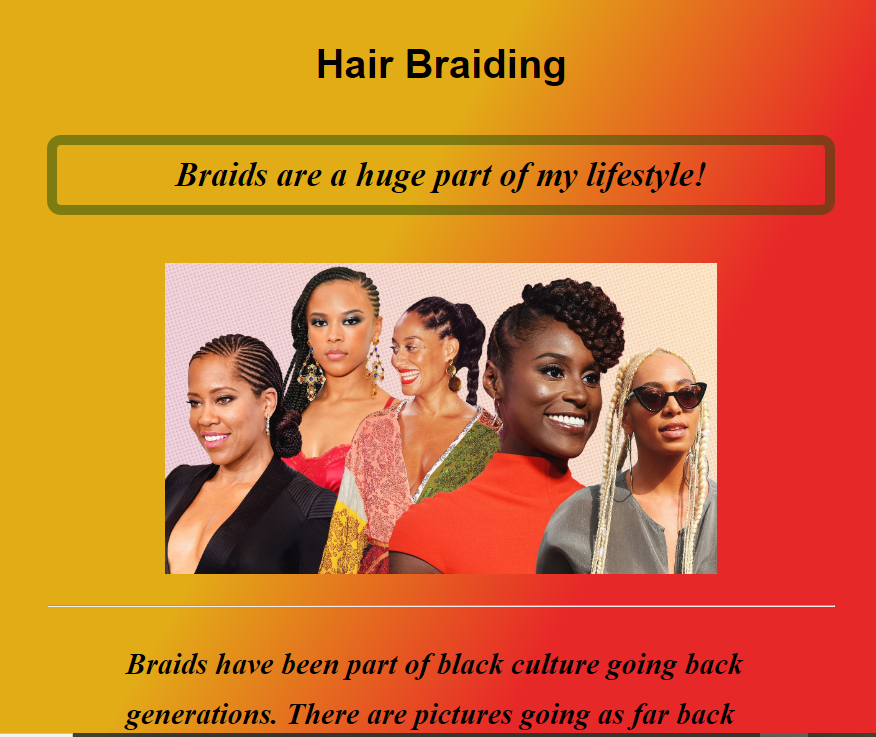
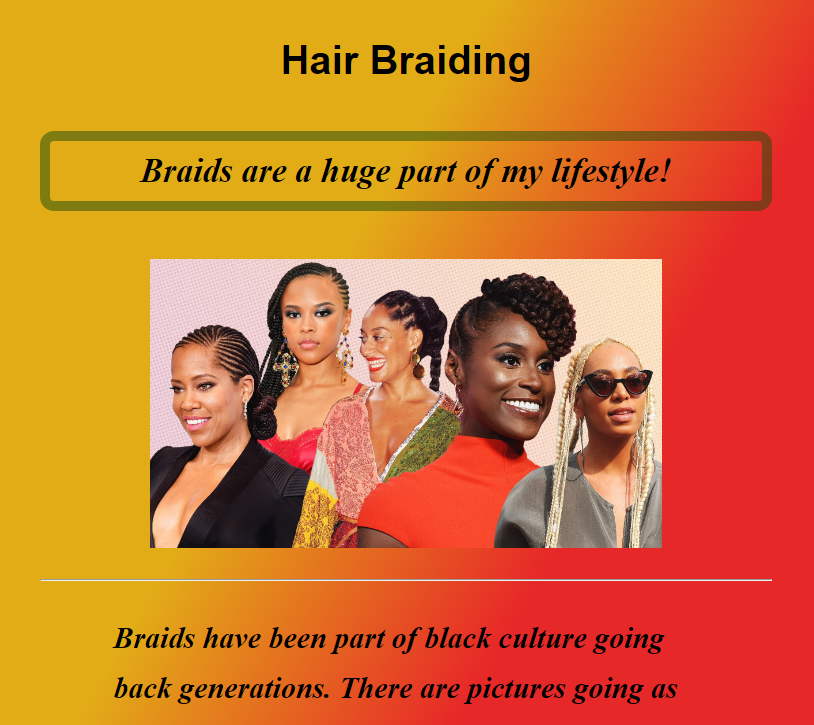
changed theme,added pictures and styling to page

diff --git a/index.html b/index.html
@@ -6,21 +6,32 @@
       name="Final Portfolio Project"
       content="Final project for Samantha Montgomery Portfolio. Web Developer, SheCodes, HTML, CSS, Javascript, React width=device-width, initial-scale=1.0"
     />
-    <meta http-equiv="X-UA-Compatible" content="ie=edge" />
+    <meta name="viewport" content="width=device-width, initial-scale=1.0" />
+
     <link
-      href="https://cdn.jsdelivr.net/npm/bootstrap@5.2.1/dist/css/bootstrap.min.css"
+      href="https://cdn.jsdelivr.net/npm/bootstrap@5.2.0/dist/css/bootstrap.min.css"
       rel="stylesheet"
-      integrity="sha384-iYQeCzEYFbKjA/T2uDLTpkwGzCiq6soy8tYaI1GyVh/UjpbCx/TYkiZhlZB6+fzT"
+      integrity="sha384-gH2yIJqKdNHPEq0n4Mqa/HGKIhSkIHeL5AyhkYV8i59U5AR6csBvApHHNl/vI1Bx"
       crossorigin="anonymous"
     />
-    <title>My Portfolio</title>
+    <script
+      src="https://cdn.jsdelivr.net/npm/bootstrap@5.2.0/dist/js/bootstrap.bundle.min.js"
+      integrity="sha384-A3rJD856KowSb7dwlZdYEkO39Gagi7vIsF0jrRAoQmDKKtQBHUuLZ9AsSv4jD4Xa"
+      crossorigin="anonymous"
+    ></script>
     <link rel="stylesheet" href="src/style.css" />
+    <meta: name="description" content="SheCodes Bootstrap / Responsive Grids and
+    Images"/>
+    <title>
+      Samantha Montgomery/ Front End Developer / SheCodes Responsive Project
+    </title>
   </head>
-
   <body>
-    <nav class="navbar navbar fixed-top bg-light mb-2">
+    <nav class="text-center navbar navbar-expand-lg bg-dark fixed-top">
       <div class="container-fluid">
-        <a class="navbar-brand" href="#">Sam Montgomery</a>
+        <a class="navbar-brand" href="index.html" title="Name"
+          >Sam Montgomery</a
+        >
         <button
           class="navbar-toggler"
           type="button"
@@ -35,96 +46,80 @@
         <div class="collapse navbar-collapse" id="navbarNav">
           <ul class="navbar-nav">
             <li class="nav-item">
-              <a class="nav-link active" aria-current="page" href="#">Home</a>
+              <a
+                class="nav-link"
+                aria-current="page"
+                href="index.html"
+                title="Home"
+                >Home</a
+              >
             </li>
             <li class="nav-item">
-              <a class="nav-link" href="#">About Me</a>
+              <a class="nav-link" href="about.html" title="About Me"
+                >About me</a
+              >
             </li>
             <li class="nav-item">
-              <a class="nav-link" href="#">My Projects</a>
+              <a
+                class="nav-link"
+                class="contact-link"
+                href="about.html#contact"
+                title="Contact"
+                >Contact me</a
+              >
             </li>
           </ul>
         </div>
       </div>
     </nav>
-    <div class="animation">
-      <h1>Samantha Montgomery</h1>
-      <h2>Front End Web Developer based in the United States</h2>
-      <div class="circle">
-        <div class="text">Samantha Montgomery-Front End Web Developer-</div>
-      </div>
+    <h1 class="text-center mb-3">Sam Montgomery</h1>
+    <h3 class="text-center">
+      🇺🇸 Front-end developer, based in The United States
+    </h3>
+    <div class="navigation-links">
+      <a class="contact-link" href="about.html#contact" title="Contact"
+        >Contact me</a
+      >
+      <a class="about-link" href="about.html" title="About">About me</a>
     </div>
     <div class="container">
       <div class="row mt-5 mb-5">
-        <div class="image col-6">
+        <div class="col-6 mb-3">
+          <div class="app-titles">Hair Braiding Project</div>
+          <p>
+            This was my first coding project. It was built using HTML, CSS and
+            basic Javascript functions. I learned alot during the building of
+            this page and found my passion for coding and creating web pages.
+          </p>
+        </div>
+        <div class="col-6 mb-3">
           <img
             src="src/images/braidingproject.png"
-            alt="Braiding Project Picture"
-            class="img-fluid rounded"
+            alt="Hair Braiding Project"
+            class="img-fluid rounded d-none d-sm-block"
           />
-        </div>
-        <div class="col-6">
-          <div class="app-titles mb-3">Yoga app</div>
-          <p class="paragraphs">
-            Lorem ipsum dolor sit amet consectetur adipisicing elit. Perferendis
-            quia, dignissimos nam ratione veniam quibusdam porro omnis quam vel
-            eos eveniet alias temporibus deserunt veritatis minima fugiat
-            explicabo eum dolore.
-          </p>
-          <div class="yoga-link mt-5">
-            <a href="#" class="app-link text-white" title="Braiding Project Button"
-              >Launch Hair Braiding Project</a
-            >
-          </div>
         </div>
       </div>
       <div class="row mt-5 mb-5">
-        <div class="col-6 mb-3">
-          <div class="app-titles">7-Day Weather App</div>
-          <p class="paragraphs">
-            Lorem ipsum dolor sit amet consectetur adipisicing elit. Perferendis
-            quia, dignissimos nam ratione veniam quibusdam porro omnis quam vel
-            eos eveniet alias temporibus deserunt veritatis minima fugiat
-            explicabo eum dolore.
-          </p>
-          <div class="weather-link mt-5">
-            <a href="#" class="app-link text-white" title="Weather App Button"
-              >Launch Weather App</a
-            >
-          </div>
-        </div>
-        <div class="image col-6 mb-3">
-          <img
-            src="src/images/WeatherApp.png"
-            alt="Weather Pic"
-            class="img-fluid rounded"
-          />
-        </div>
-      </div>
-
-      <div class="row mt-5">
-        <div class="image col-6">
-          <img
-            src="images/yogurt.png"
-            alt="Yogurt Pic"
-            class="img-fluid rounded"
-          />
-        </div>
         <div class="col-6">
-          <div class="app-titles">Yogurt App</div>
-          <p class="paragraphs">
-            Lorem ipsum dolor sit amet consectetur adipisicing elit. Perferendis
-            quia, dignissimos nam ratione veniam quibusdam porro omnis quam vel
-            eos eveniet alias temporibus deserunt veritatis minima fugiat
-            explicabo eum dolore.
+          <img
+            src="src/images/weatherapp.png"
+            alt="Weather App Picture"
+            class="img-fluid rounded d-none d-sm-block"
+          />
+        </div>
+        <div class="col-6 mb-3">
+          <div class="app-titles">Weather App</div>
+          <p>
+            This was my second coding project in the form of a weather app. I
+            built this app using HTML, CSS and Javascript. I also learned to use
+            API Keys and geolocation during the construction of this app. It is
+            interactive and displays the current weather conditions as well as
+            the 7-day forecast.
           </p>
-          <div class="yogurt-link mt-5">
-            <a href="#" class="app-link text-white" title="Yogurt Button"
-              >Launch Yogurt App</a
-            >
-          </div>
         </div>
       </div>
+    </div>
     <footer>
       <span class="code-title">Open-Source Code</span> By
       <span

diff --git a/src/style.css b/src/style.css
@@ -1,33 +1,101 @@
+:root {
+  --primary-color: rgb(119, 53, 64);
+  --secondary-color: #f5f2fe;
+  --box-shadow: 0 5px 10px rgba(0, 0, 0, 0.3);
+}
 body {
-  font-family: sans-serif;
+  margin: 70px auto 0px;
+  background-image: linear-gradient(to top right, #f1cc9b, brown);
+}
+
+h2,
+h3 {
+  text-align: center !important;
+  margin: 0px;
 }
 
 h1 {
-  position: fixed;
-  top: 200px;
-  right: 420px;
-  font-size: 40px;
-  text-align: center;
+  font-size: 76px;
+  text-align: center !important;
+  margin: 45px;
 }
 
 h2 {
-  text-align: center;
-  position: fixed;
-  top: 290px;
-  right: 300px;
+  font-size: 48px;
+  text-align: center !important;
 }
 
-body {
-  display: grid;
-  place-items: center;
-  min-height: 100vh;
-  background-image: linear-gradient(to top right, pink 10%, brown);
+h3 {
+  font-size: 24px;
+  opacity: 0.7;
+  text-align: center !important;
 }
 
+p {
+  border-radius: 4px;
+  font-size: 18px;
+  line-height: 1.5;
+  text-align: left;
+  margin-top: 5px;
+}
 footer {
   position: fixed;
   bottom: 10px;
   left: 10px;
+}
+.shadow {
+  box-shadow: 0 0.5rem 1rem rgba(0, 0, 0, 0.15) !important;
+}
+
+.p-2 {
+  padding: 0.5rem !important;
+}
+.contact-link,
+.about-link {
+  background: var(--primary-color);
+  box-shadow: var(--box-shadow);
+  color: white;
+  border: 1px solid var(--secondary-color);
+}
+.navigation-links {
+  display: flex;
+  margin-top: 40px;
+  justify-content: center;
+}
+
+.navigation-links a:hover {
+  color: #b3ada5;
+}
+.navigation-links a {
+  margin: 10px;
+  border-radius: 4px;
+  padding: 20px 15px;
+  text-decoration: none;
+  text-transform: capitalize;
+  color: #f1cc9b;
+}
+
+.app-titles {
+  font-size: 48px;
+  font-weight: 500;
+}
+.nav-link {
+  color: #f1cc9b;
+}
+.button,
+.navbar-toggler,
+.navbar-toggler-icon {
+  color: #f1cc9b;
+}
+.navbar-brand {
+  padding-top: 0.25rem;
+  padding-bottom: 0.25rem;
+  margin-right: 1rem;
+  margin-left: 8.25rem;
+  font-size: 1.25rem;
+  text-decoration: none;
+  white-space: nowrap;
+  color: #f1cc9b;
 }
 
 .animation {
@@ -80,10 +148,67 @@ footer {
 
 .name:hover {
   text-decoration: underline;
-  color: rgb(7, 132, 216);
+  color: rgb(237, 241, 241);
 }
 
 .code-title:hover {
   text-decoration: underline;
-  color: rgb(7, 132, 216);
+  color: rgb(237, 241, 241);
+}
+.fixed-top {
+  position: fixed;
+  top: 0;
+  right: 0;
+  left: 0;
+  z-index: 1030;
+}
+
+.img-fluid {
+  max-width: 100%;
+  height: auto;
+}
+
+.rounded {
+  border-radius: 0.25rem !important;
+}
+@media (max-width: 600px) {
+  h1 {
+    font-size: 30px;
+  }
+  h2 {
+    font-size: 24px;
+  }
+  h3 {
+    font-size: 18px;
+  }
+
+  .image {
+    display: none;
+  }
+  img {
+    display: none;
+  }
+  .paragraphs,
+  .app-titles,
+  .app-link {
+    display: block;
+    text-align: center;
+    width: 100%;
+  }
+  .navigation-links a {
+    padding: 10px 15px;
+    text-decoration: none;
+    text-transform: capitalize;
+    justify-content: center;
+  }
+  .navbar-brand {
+    margin-left: 4rem;
+  }
+  .app-link {
+    margin: 0px auto;
+    text-align: center;
+  }
+  .col-6 {
+    width: 100%;
+  }
 }
